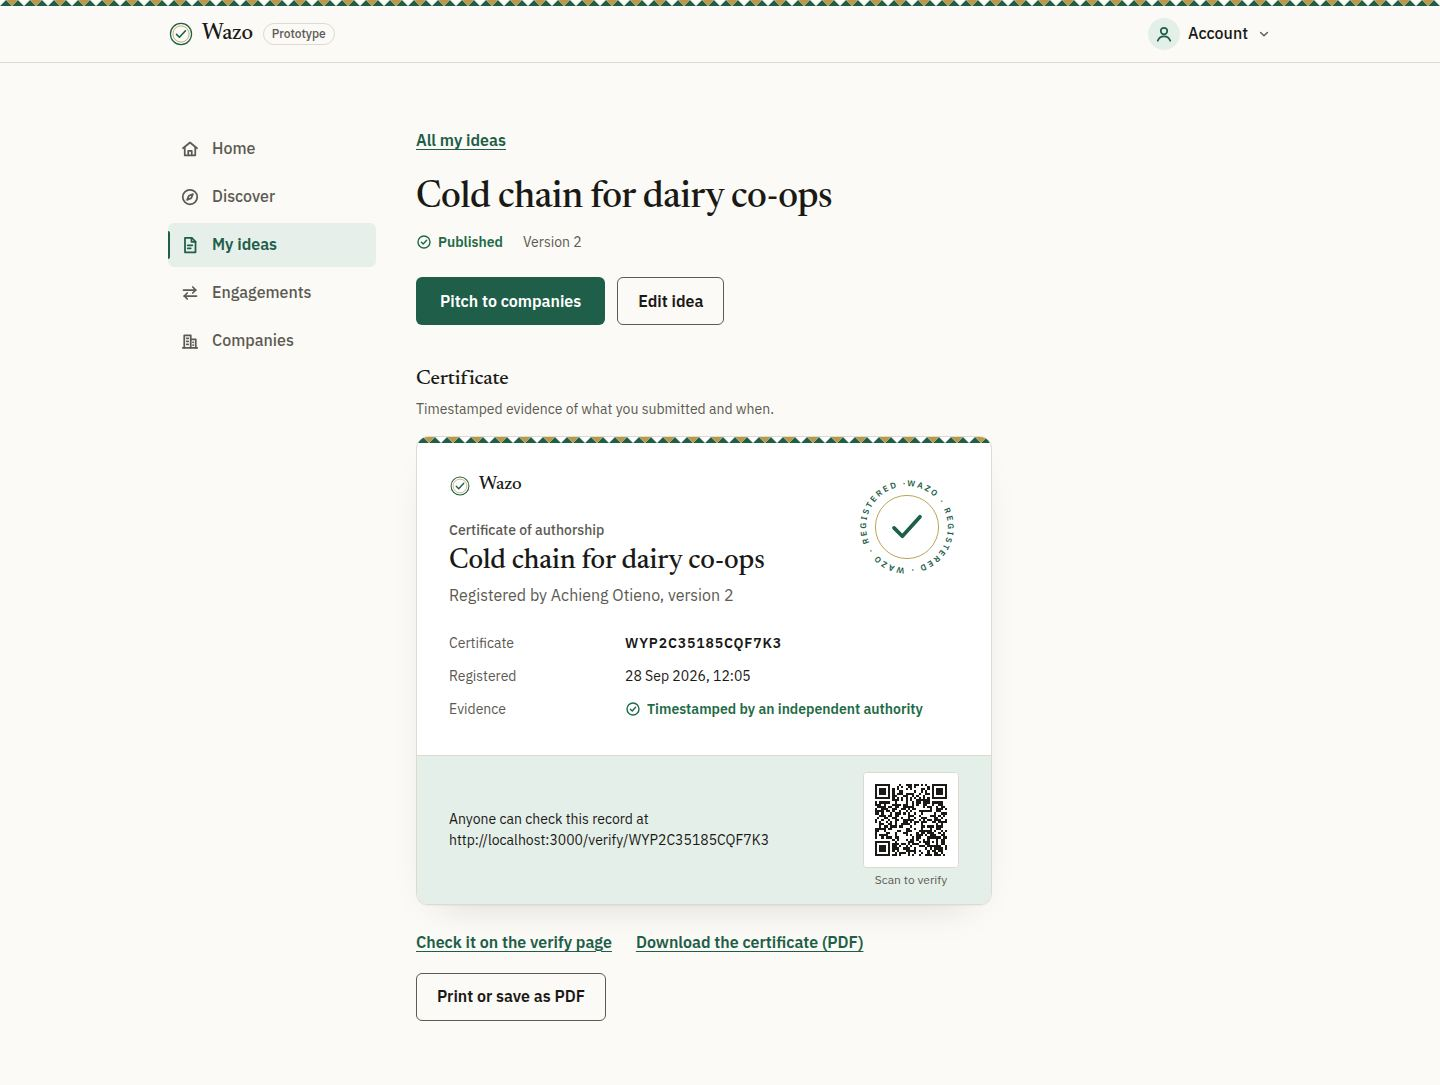
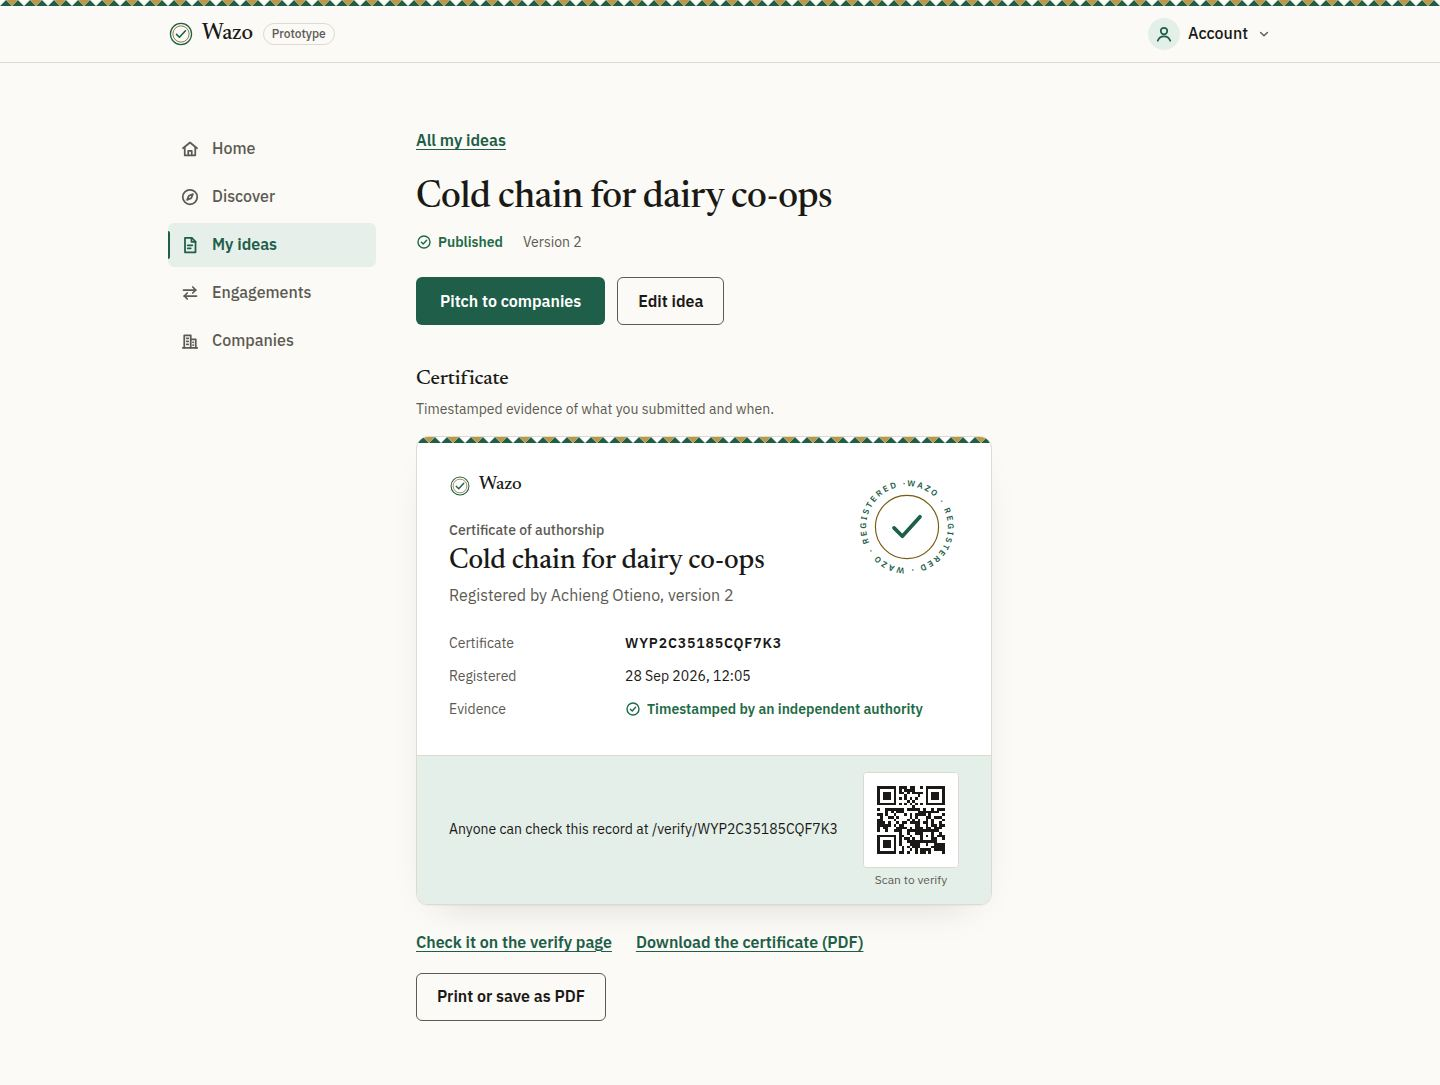
docs(platform): P18 fix round on the four showpiece screens
The design-system record (warm accent, card links, tile labels, verify origin), the task card's round, the Handoff; screenshots refreshed in docs/demo/screenshots/p18/.

Claude-Session: https://claude.ai/code/session_01Ja6kutgR3oQMBCanwEfvpC

Changed region(s): [[0.3125, 0.73, 0.5625, 0.7908], [0.5938, 0.6995, 0.6562, 0.7908]]

diff --git a/docs/platform/design/p18-design-system.md b/docs/platform/design/p18-design-system.md
@@ -16,7 +16,8 @@ owner's brief (D-52), then `docs/spec/07` and `docs/spec/04` §4.6 for everythin
 | `--ink` / `--ink-soft` | `#1A1916` / `#5C5A53` | `#ECE9E1` / `#B4B0A5` | text (16.4:1, 6.6:1 on paper) |
 | `--line` | `#DEDACF` | `#30312C` | hairlines |
 | `--accent` / `--accent-wash` | `#1F5E49` / `#E5EFE9` | `#7FCBAB` / `#1F2F28` | act here, current, focus; selected, info |
-| `--flourish` | `#B89A4A` | `#A08B48` | the lattice's second tone, seals, art; never text or status |
+| `--flourish` | `#B89A4A` | `#A08B48` | the lattice's second tone and illustration; never text |
+| `--warm` / `--warm-wash` | `#7A5A12` / `#F6EFDC` | `#E0B85A` / `#2A2416` | the warm secondary accent from the lattice's ochre (6.1:1 light, 9.9:1 dark), used sparingly: the solid "Your turn" badge, success notices (`Alert`/`Callout` tone `ok`), the seal's inner ring and the mark's inner ring |
 | `--ok` / `--error` | `#1F6B47` / `#9E2A1F` | `#7AC79A` / `#FF8F7E` | status, always with an icon and words |
 | `--shadow-card` | `0 1px 0 … / 0.04, 0 16px 40px -24px … / 0.22` | from black | cards, sheets, tiles |
 | `--shadow-overlay` | as before, re-tinted | from black | menus, dialogs, sheets over the page |
@@ -54,25 +55,43 @@ never behind text, never as wallpaper.
 | `landing/LandingContent`, `landing/HeroComposition` | the landing page and its layered product visual (illustrative, labelled) |
 | `ThemeToggle` | system / light / dark, in the account menu and the landing footer |
 
+**Cards that are links.** A card holds one link, its title, stretched over the whole card (`cardLinkClass`, `Card
+interactive`): no underline on the title, the accessible name is the title, the card shows the hover (accent-line
+border, overlay shadow) and the focus ring; the link's own outline is off. "Open the tracker" on a Needs-you card is
+the link's visual cue, not a second link. Underlines stay for links inside running text. Rows turned into cards
+(`RowList cards`) keep their title link but drop the underline. Cards in a grid are equal height. Avatars are round
+for people and organisations alike.
+
+**Stat tiles** say what they count: Ideas "2 published · 1 draft" (a published idea's saved edits are "unpublished
+changes" on its own card, not a draft); the deadline tile shows "Oct 3" with "in 2 business days", "Due today" or
+"Overdue" under it, never wrapping at 375 px.
+
+**The certificate's verify address** comes from `NEXT_PUBLIC_SITE_ORIGIN` (frontend/.env.example) plus the path; with
+no origin configured the sheet and its QR carry the path alone, never the server's own host.
+
 The top bar (`TopBarBase`) shows the wordmark as the home link (accessible name "Wazo") and the muted "Prototype"
 badge once per screen. Demo honesty labels stay neutral badges ("Seeded example", "(fixture)", "Illustrative
 example", "Sample prices, not final").
 
 ## The four showpiece screens (this step)
 
-- **Landing** (`app/(public)/page.tsx` → `LandingContent`): hero with the promise and the layered visual (the real
-  stepper and progress bar, a scout match card, the certificate card), "How it works" in three numbered steps with
+- **Landing** (`app/(public)/page.tsx` → `LandingContent`): an eight-word headline on two lines with the long
+  sentence as the subhead, then the product visual as the hero: a browser frame over a soft backdrop holding the real
+  tracker card (avatars, "Your turn", the stepper), a scout match card and the certificate card with a little depth,
+  every word at least 13 px, "How it works" in three numbered steps with
   icons (a real sequence), "Who it is for" as two cards, "Proof of authorship, not a promise" with the seal and three
   points (no protection claims; `locales.test.ts` keeps the approved logging phrasing), the final call to action on
   the wash with the lattice, and a footer with the appearance toggle.
-- **Developer Home** (`app/(app)/dev/HomeContent.tsx`): four stat tiles (ideas with drafts, engagements with active,
-  needs you, next deadline with days left), "Needs you" as `NeedsYouCard`s with the other party's avatar, the stage,
-  "Your turn", the deadline and "Open the tracker", "Recommended for you" as cards, the other engagements and ideas as
-  compact cards, the two-step sign-in line.
-- **Tracker** (`components/tracker/EngagementScreen.tsx`): the whose-turn card now shows both parties' avatars with
-  the awaited ones ringed; a segmented progress bar with "Stage n of 5: group"; the timeline (the `Stepper`, whose
-  names never break inside a word) with the acting party's avatar on the current step on phones; the actions in a
-  card headed "Now: stage". Every test selector (`[data-whose-turn]`, the "Stages" list, `[data-actions]`) is unchanged.
+- **Developer Home** (`app/(app)/dev/HomeContent.tsx`): four stat tiles (ideas with published and drafts,
+  engagements with active, needs you, next deadline), "Needs you" as `NeedsYouCard`s with the other party's avatar,
+  the stage, "Your turn", the deadline and the way in, "Recommended for you" as cards (a seeded example carries the
+  small "Demo data" badge, its full sentence on press), the other engagements and ideas as compact cards; two-step
+  sign-in appears only as a notice while it is off.
+- **Tracker** (`components/tracker/EngagementScreen.tsx`): the whose-turn card shows both parties' avatars with
+  the awaited ones ringed and says the next step once (one sentence when both owe the same step); the timeline (the
+  `Stepper`, whose names never break inside a word) is the one progress indicator, with "Now: stage" on the current
+  step and, on phones, the acting party's avatars and "Since <date>"; the actions in a card. Every test selector
+  (`[data-whose-turn]`, the "Stages" list, `[data-actions]`) is unchanged.
 - **Certificate** (`app/(app)/dev/ideas/[id]/Certificate.tsx`): the sheet is the section's default view, placed right
   under the idea's actions; the links (public record, PDF when timestamped) and "Print or save as PDF" follow.
 

diff --git a/docs/platform/tasks/P18-design-directions.md b/docs/platform/tasks/P18-design-directions.md
@@ -50,4 +50,16 @@ branch (`docs/platform/design/p18-design-system.md` is the system's record):
   and the tracker were kept (`[data-primary]`, `[data-home='others'] article [data-chip]`, `[data-whose-turn]`, the
   "Stages" list, `[data-actions]`).
 
-Waiting on the owner's review of the four screens before the roll-out to the remaining screens.
+### Fix round (2026-10-01, the owner's seven points)
+
+1. Landing: eight-word headline on two lines; the visual is the hero in a browser frame over a backdrop, text ≥ 13 px.
+2. Certificate: the verify address from `NEXT_PUBLIC_SITE_ORIGIN`, else the path; never localhost.
+3. Tracker: the timeline is the one progress indicator; the next step said once; avatars with room; "Since <date>"
+   on the current step on phones (dates for completed steps need the history read; not shown yet).
+4. Cards are one link each (title as the name, stretched, focus ring and hover on the card), no underlined titles.
+5. Home: no two-step section (a notice only while off); "Demo data" badge with the sentence on press; equal heights.
+6. Round avatars everywhere; the Ideas tile says published and drafts; the deadline tile "Oct 3" + "in 2 business days".
+7. `--warm` from the lattice's ochre (AA in both modes) on "Your turn", success notices and the seal's ring.
+
+Also: `e2e/auth.spec.ts` reads the new `--ink-soft` value. Checks as above (1275 unit tests, production build).
+Waiting on the owner's OK before the roll-out (the owner switches the model to Opus 5.5 for it).

diff --git a/docs/platform/PROGRESS.md b/docs/platform/PROGRESS.md
@@ -401,7 +401,9 @@ stopped since a container restart: `make demo-reset` before showing it.
 Lattice, Avatar, StatTile, ProgressBar, Card, Illustration, ThemeToggle, CertificateSheet) and the four showpiece
 screens (landing, Developer Home, tracker, certificate) with screenshots in `docs/demo/screenshots/p18/`; the lab now
 previews the product's own screens on fixtures (`/design-lab/<screen>`). Checks: typecheck, eslint, vitest (1274),
-`next build`; the e2e suite was not run (no compose stack in this container; the selectors it uses were kept).
+`next build`; the e2e suite was not run (no compose stack in this container; the selectors it uses were kept, and
+`auth.spec.ts` reads the new `--ink-soft`). The owner's fix round (seven points: hero, verify origin, one progress
+indicator, card links, Home tiles and notice, round avatars, the warm accent) is applied; `tasks/P18-design-directions.md`.
 **Resume at step 3** once the owner has reviewed the four screens: the remaining screens in demo-story order
 (`tasks/P18-design-directions.md` lists them), haptics, the tour, the branded emails (also the backend's
 `product_name` default), then step 4's pitch assets. Linux setup this session: `npm ci` only (no Docker, no backend:
